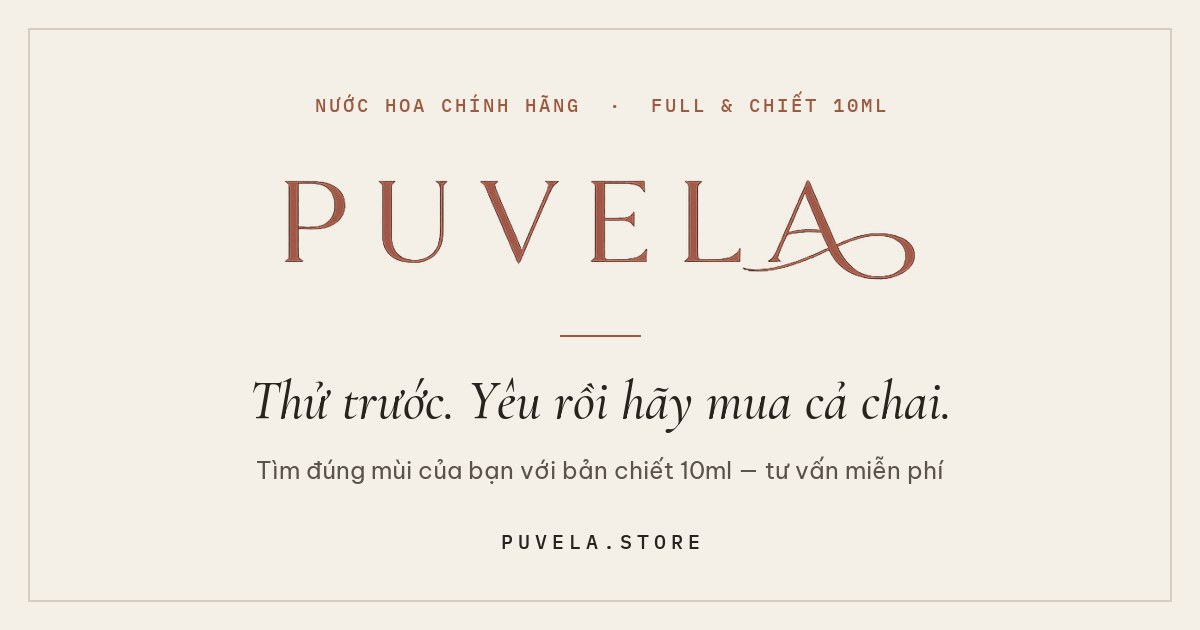
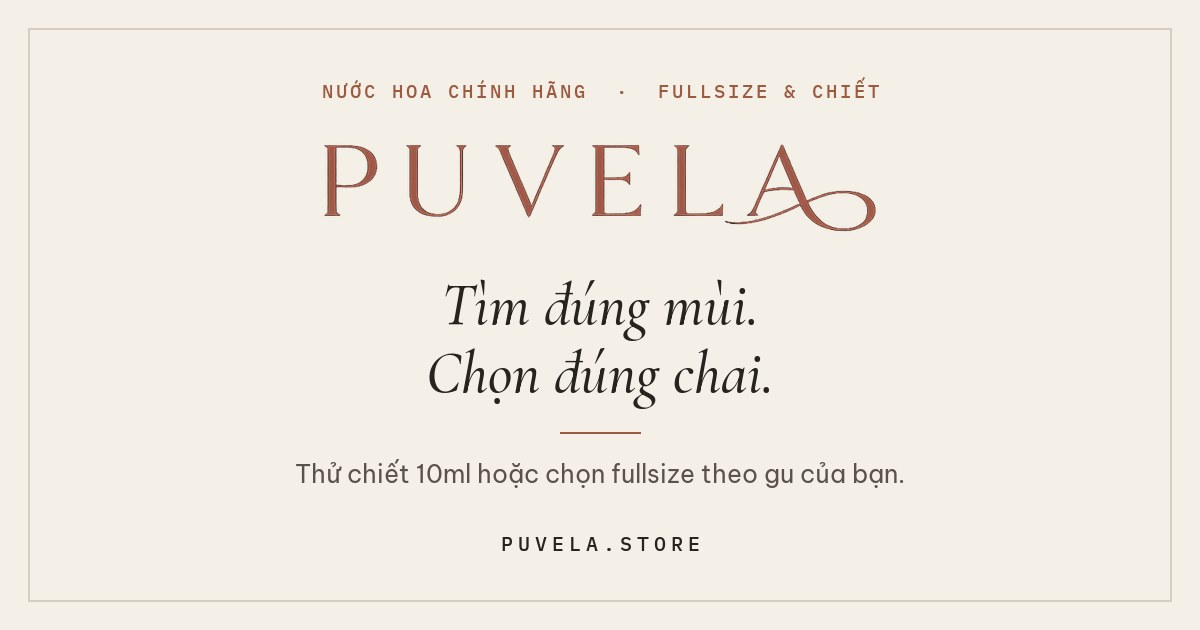
update: ảnh chia sẻ link — "Tìm đúng mùi. Chọn đúng chai." (fullsize & chiết)
Ảnh khi gắn link puvela.store lên Facebook/Zalo trước nghiêng hẳn về chiết
("Thử trước. Yêu rồi hãy mua cả chai."), khách mua fullsize không thấy mình trong đó.
Hero website giữ nguyên.

- og-cover.jpg: NƯỚC HOA CHÍNH HÃNG · FULLSIZE & CHIẾT / PUVELA / Tìm đúng mùi.
  Chọn đúng chai. / Thử chiết 10ml hoặc chọn fullsize theo gu của bạn / PUVELA.STORE
- og:image, og:image:secure_url, twitter:image thêm ?v=2 để Facebook tải ảnh mới
- og:image:alt theo thông điệp mới

diff --git a/product.html b/product.html
@@ -19,14 +19,14 @@
   <meta property="og:locale" content="vi_VN" />
   <meta property="og:title" content="Puvela — Nước hoa chính hãng" />
   <meta property="og:description" content="Nước hoa chính hãng nhập khẩu tại Puvela — mua full bottle hoặc chiết 10ml. Giao COD toàn quốc, đổi trong 48 giờ nếu giao sai hoặc hư hỏng." />
-  <meta property="og:image" content="https://puvela.store/assets/og-cover.jpg" />
-  <meta property="og:image:secure_url" content="https://puvela.store/assets/og-cover.jpg" />
+  <meta property="og:image" content="https://puvela.store/assets/og-cover.jpg?v=2" />
+  <meta property="og:image:secure_url" content="https://puvela.store/assets/og-cover.jpg?v=2" />
   <meta property="og:image:type" content="image/jpeg" />
   <meta property="og:image:width" content="1200" />
   <meta property="og:image:height" content="630" />
-  <meta property="og:image:alt" content="PUVELA — Nước hoa chính hãng, chiết 10ml. Thử trước. Yêu rồi hãy mua cả chai." />
+  <meta property="og:image:alt" content="PUVELA — Nước hoa chính hãng, fullsize &amp; chiết 10ml. Tìm đúng mùi. Chọn đúng chai." />
   <meta name="twitter:card" content="summary_large_image" />
-  <meta name="twitter:image" content="https://puvela.store/assets/og-cover.jpg" />
+  <meta name="twitter:image" content="https://puvela.store/assets/og-cover.jpg?v=2" />
   <meta name="description" content="Nước hoa chính hãng nhập khẩu tại Puvela — mua full bottle hoặc chiết 10ml. Giao COD toàn quốc, đổi trong 48 giờ nếu giao sai hoặc hư hỏng." />
   <link rel="icon" type="image/png" href="assets/favicon-puvela.png"><link rel="preconnect" href="https://fonts.googleapis.com" /><link rel="preconnect" href="https://fonts.gstatic.com" crossorigin />
   <link href="https://fonts.googleapis.com/css2?family=Cormorant+Garamond:ital,wght@0,500;0,600;1,500;1,600&family=Be+Vietnam+Pro:wght@300;400;500;600&family=IBM+Plex+Mono:wght@400;500&display=swap" rel="stylesheet" />

diff --git a/collection.html b/collection.html
@@ -18,14 +18,14 @@
   <meta property="og:locale" content="vi_VN" />
   <meta property="og:title" content="Puvela — Bộ sưu tập" />
   <meta property="og:description" content="Nước hoa chính hãng nhập khẩu — full bottle &amp; chiết 10ml. Chọn theo Nữ, Nam, Unisex &amp; Niche tại Puvela." />
-  <meta property="og:image" content="https://puvela.store/assets/og-cover.jpg" />
-  <meta property="og:image:secure_url" content="https://puvela.store/assets/og-cover.jpg" />
+  <meta property="og:image" content="https://puvela.store/assets/og-cover.jpg?v=2" />
+  <meta property="og:image:secure_url" content="https://puvela.store/assets/og-cover.jpg?v=2" />
   <meta property="og:image:type" content="image/jpeg" />
   <meta property="og:image:width" content="1200" />
   <meta property="og:image:height" content="630" />
-  <meta property="og:image:alt" content="PUVELA — Nước hoa chính hãng, chiết 10ml. Thử trước. Yêu rồi hãy mua cả chai." />
+  <meta property="og:image:alt" content="PUVELA — Nước hoa chính hãng, fullsize &amp; chiết 10ml. Tìm đúng mùi. Chọn đúng chai." />
   <meta name="twitter:card" content="summary_large_image" />
-  <meta name="twitter:image" content="https://puvela.store/assets/og-cover.jpg" />
+  <meta name="twitter:image" content="https://puvela.store/assets/og-cover.jpg?v=2" />
   <meta name="description" content="Nước hoa chính hãng nhập khẩu — full bottle & chiết 10ml. Chọn theo Nữ, Nam, Unisex & Niche tại Puvela." />
   <link rel="icon" type="image/png" href="assets/favicon-puvela.png"><link rel="preconnect" href="https://fonts.googleapis.com" /><link rel="preconnect" href="https://fonts.gstatic.com" crossorigin />
   <link href="https://fonts.googleapis.com/css2?family=Cormorant+Garamond:ital,wght@0,500;0,600;1,500;1,600&family=Be+Vietnam+Pro:wght@300;400;500;600&family=IBM+Plex+Mono:wght@400;500&display=swap" rel="stylesheet" />

diff --git a/index.html b/index.html
@@ -23,14 +23,14 @@
   <meta property="og:title" content="PUVELA — Nước Hoa Chính Hãng &amp; Nước Hoa Chiết 10ml" />
   <meta property="og:description" content="Khám phá nước hoa chính hãng nhập khẩu tại PUVELA. Thử trước với nước hoa chiết 10ml hoặc chọn fullsize. Tìm mùi hương phù hợp với bạn." />
   <meta property="og:url" content="https://puvela.store/" />
-  <meta property="og:image" content="https://puvela.store/assets/og-cover.jpg" />
-  <meta property="og:image:secure_url" content="https://puvela.store/assets/og-cover.jpg" />
+  <meta property="og:image" content="https://puvela.store/assets/og-cover.jpg?v=2" />
+  <meta property="og:image:secure_url" content="https://puvela.store/assets/og-cover.jpg?v=2" />
   <meta property="og:image:type" content="image/jpeg" />
   <meta property="og:image:width" content="1200" />
   <meta property="og:image:height" content="630" />
-  <meta property="og:image:alt" content="PUVELA — Nước hoa chính hãng, chiết 10ml. Thử trước. Yêu rồi hãy mua cả chai." />
+  <meta property="og:image:alt" content="PUVELA — Nước hoa chính hãng, fullsize &amp; chiết 10ml. Tìm đúng mùi. Chọn đúng chai." />
   <meta name="twitter:card" content="summary_large_image" />
-  <meta name="twitter:image" content="https://puvela.store/assets/og-cover.jpg" />
+  <meta name="twitter:image" content="https://puvela.store/assets/og-cover.jpg?v=2" />
   <link rel="icon" type="image/png" href="assets/favicon-puvela.png">
   <link rel="preconnect" href="https://fonts.googleapis.com" />
   <link rel="preconnect" href="https://fonts.gstatic.com" crossorigin />

diff --git a/van-chuyen.html b/van-chuyen.html
@@ -40,14 +40,14 @@
   <meta property="og:title" content="Puvela — Vận chuyển &amp; đổi trả" />
   <meta property="og:description" content="Nước hoa chính hãng nhập khẩu — full bottle &amp; chiết 10ml. Chọn theo Nữ, Nam, Unisex &amp; Niche tại Puvela." />
   <meta property="og:url" content="https://puvela.store/van-chuyen.html" />
-  <meta property="og:image" content="https://puvela.store/assets/og-cover.jpg" />
-  <meta property="og:image:secure_url" content="https://puvela.store/assets/og-cover.jpg" />
+  <meta property="og:image" content="https://puvela.store/assets/og-cover.jpg?v=2" />
+  <meta property="og:image:secure_url" content="https://puvela.store/assets/og-cover.jpg?v=2" />
   <meta property="og:image:type" content="image/jpeg" />
   <meta property="og:image:width" content="1200" />
   <meta property="og:image:height" content="630" />
-  <meta property="og:image:alt" content="PUVELA — Nước hoa chính hãng, chiết 10ml. Thử trước. Yêu rồi hãy mua cả chai." />
+  <meta property="og:image:alt" content="PUVELA — Nước hoa chính hãng, fullsize &amp; chiết 10ml. Tìm đúng mùi. Chọn đúng chai." />
   <meta name="twitter:card" content="summary_large_image" />
-  <meta name="twitter:image" content="https://puvela.store/assets/og-cover.jpg" />
+  <meta name="twitter:image" content="https://puvela.store/assets/og-cover.jpg?v=2" />
 
   <style>
     /* ===== trang nội dung (chính sách, điều khoản…) ===== */

diff --git a/dieu-khoan.html b/dieu-khoan.html
@@ -393,14 +393,14 @@
   <meta property="og:title" content="Puvela — Điều khoản sử dụng" />
   <meta property="og:description" content="Nước hoa chính hãng nhập khẩu — full bottle &amp; chiết 10ml. Chọn theo Nữ, Nam, Unisex &amp; Niche tại Puvela." />
   <meta property="og:url" content="https://puvela.store/dieu-khoan.html" />
-  <meta property="og:image" content="https://puvela.store/assets/og-cover.jpg" />
-  <meta property="og:image:secure_url" content="https://puvela.store/assets/og-cover.jpg" />
+  <meta property="og:image" content="https://puvela.store/assets/og-cover.jpg?v=2" />
+  <meta property="og:image:secure_url" content="https://puvela.store/assets/og-cover.jpg?v=2" />
   <meta property="og:image:type" content="image/jpeg" />
   <meta property="og:image:width" content="1200" />
   <meta property="og:image:height" content="630" />
-  <meta property="og:image:alt" content="PUVELA — Nước hoa chính hãng, chiết 10ml. Thử trước. Yêu rồi hãy mua cả chai." />
+  <meta property="og:image:alt" content="PUVELA — Nước hoa chính hãng, fullsize &amp; chiết 10ml. Tìm đúng mùi. Chọn đúng chai." />
   <meta name="twitter:card" content="summary_large_image" />
-  <meta name="twitter:image" content="https://puvela.store/assets/og-cover.jpg" />
+  <meta name="twitter:image" content="https://puvela.store/assets/og-cover.jpg?v=2" />
 
   <style>
     /* ===== trang nội dung (chính sách, điều khoản…) ===== */

diff --git a/bao-mat.html b/bao-mat.html
@@ -40,14 +40,14 @@
   <meta property="og:title" content="Puvela — Chính sách bảo mật" />
   <meta property="og:description" content="Nước hoa chính hãng nhập khẩu — full bottle &amp; chiết 10ml. Chọn theo Nữ, Nam, Unisex &amp; Niche tại Puvela." />
   <meta property="og:url" content="https://puvela.store/bao-mat.html" />
-  <meta property="og:image" content="https://puvela.store/assets/og-cover.jpg" />
-  <meta property="og:image:secure_url" content="https://puvela.store/assets/og-cover.jpg" />
+  <meta property="og:image" content="https://puvela.store/assets/og-cover.jpg?v=2" />
+  <meta property="og:image:secure_url" content="https://puvela.store/assets/og-cover.jpg?v=2" />
   <meta property="og:image:type" content="image/jpeg" />
   <meta property="og:image:width" content="1200" />
   <meta property="og:image:height" content="630" />
-  <meta property="og:image:alt" content="PUVELA — Nước hoa chính hãng, chiết 10ml. Thử trước. Yêu rồi hãy mua cả chai." />
+  <meta property="og:image:alt" content="PUVELA — Nước hoa chính hãng, fullsize &amp; chiết 10ml. Tìm đúng mùi. Chọn đúng chai." />
   <meta name="twitter:card" content="summary_large_image" />
-  <meta name="twitter:image" content="https://puvela.store/assets/og-cover.jpg" />
+  <meta name="twitter:image" content="https://puvela.store/assets/og-cover.jpg?v=2" />
 
   <style>
     /* ===== trang nội dung (chính sách, điều khoản…) ===== */

diff --git a/faq.html b/faq.html
@@ -40,14 +40,14 @@
   <meta property="og:title" content="Puvela — Câu hỏi thường gặp" />
   <meta property="og:description" content="Nước hoa chính hãng nhập khẩu — full bottle &amp; chiết 10ml. Chọn theo Nữ, Nam, Unisex &amp; Niche tại Puvela." />
   <meta property="og:url" content="https://puvela.store/faq.html" />
-  <meta property="og:image" content="https://puvela.store/assets/og-cover.jpg" />
-  <meta property="og:image:secure_url" content="https://puvela.store/assets/og-cover.jpg" />
+  <meta property="og:image" content="https://puvela.store/assets/og-cover.jpg?v=2" />
+  <meta property="og:image:secure_url" content="https://puvela.store/assets/og-cover.jpg?v=2" />
   <meta property="og:image:type" content="image/jpeg" />
   <meta property="og:image:width" content="1200" />
   <meta property="og:image:height" content="630" />
-  <meta property="og:image:alt" content="PUVELA — Nước hoa chính hãng, chiết 10ml. Thử trước. Yêu rồi hãy mua cả chai." />
+  <meta property="og:image:alt" content="PUVELA — Nước hoa chính hãng, fullsize &amp; chiết 10ml. Tìm đúng mùi. Chọn đúng chai." />
   <meta name="twitter:card" content="summary_large_image" />
-  <meta name="twitter:image" content="https://puvela.store/assets/og-cover.jpg" />
+  <meta name="twitter:image" content="https://puvela.store/assets/og-cover.jpg?v=2" />
 
   <style>
     /* ===== trang nội dung (chính sách, điều khoản…) ===== */
